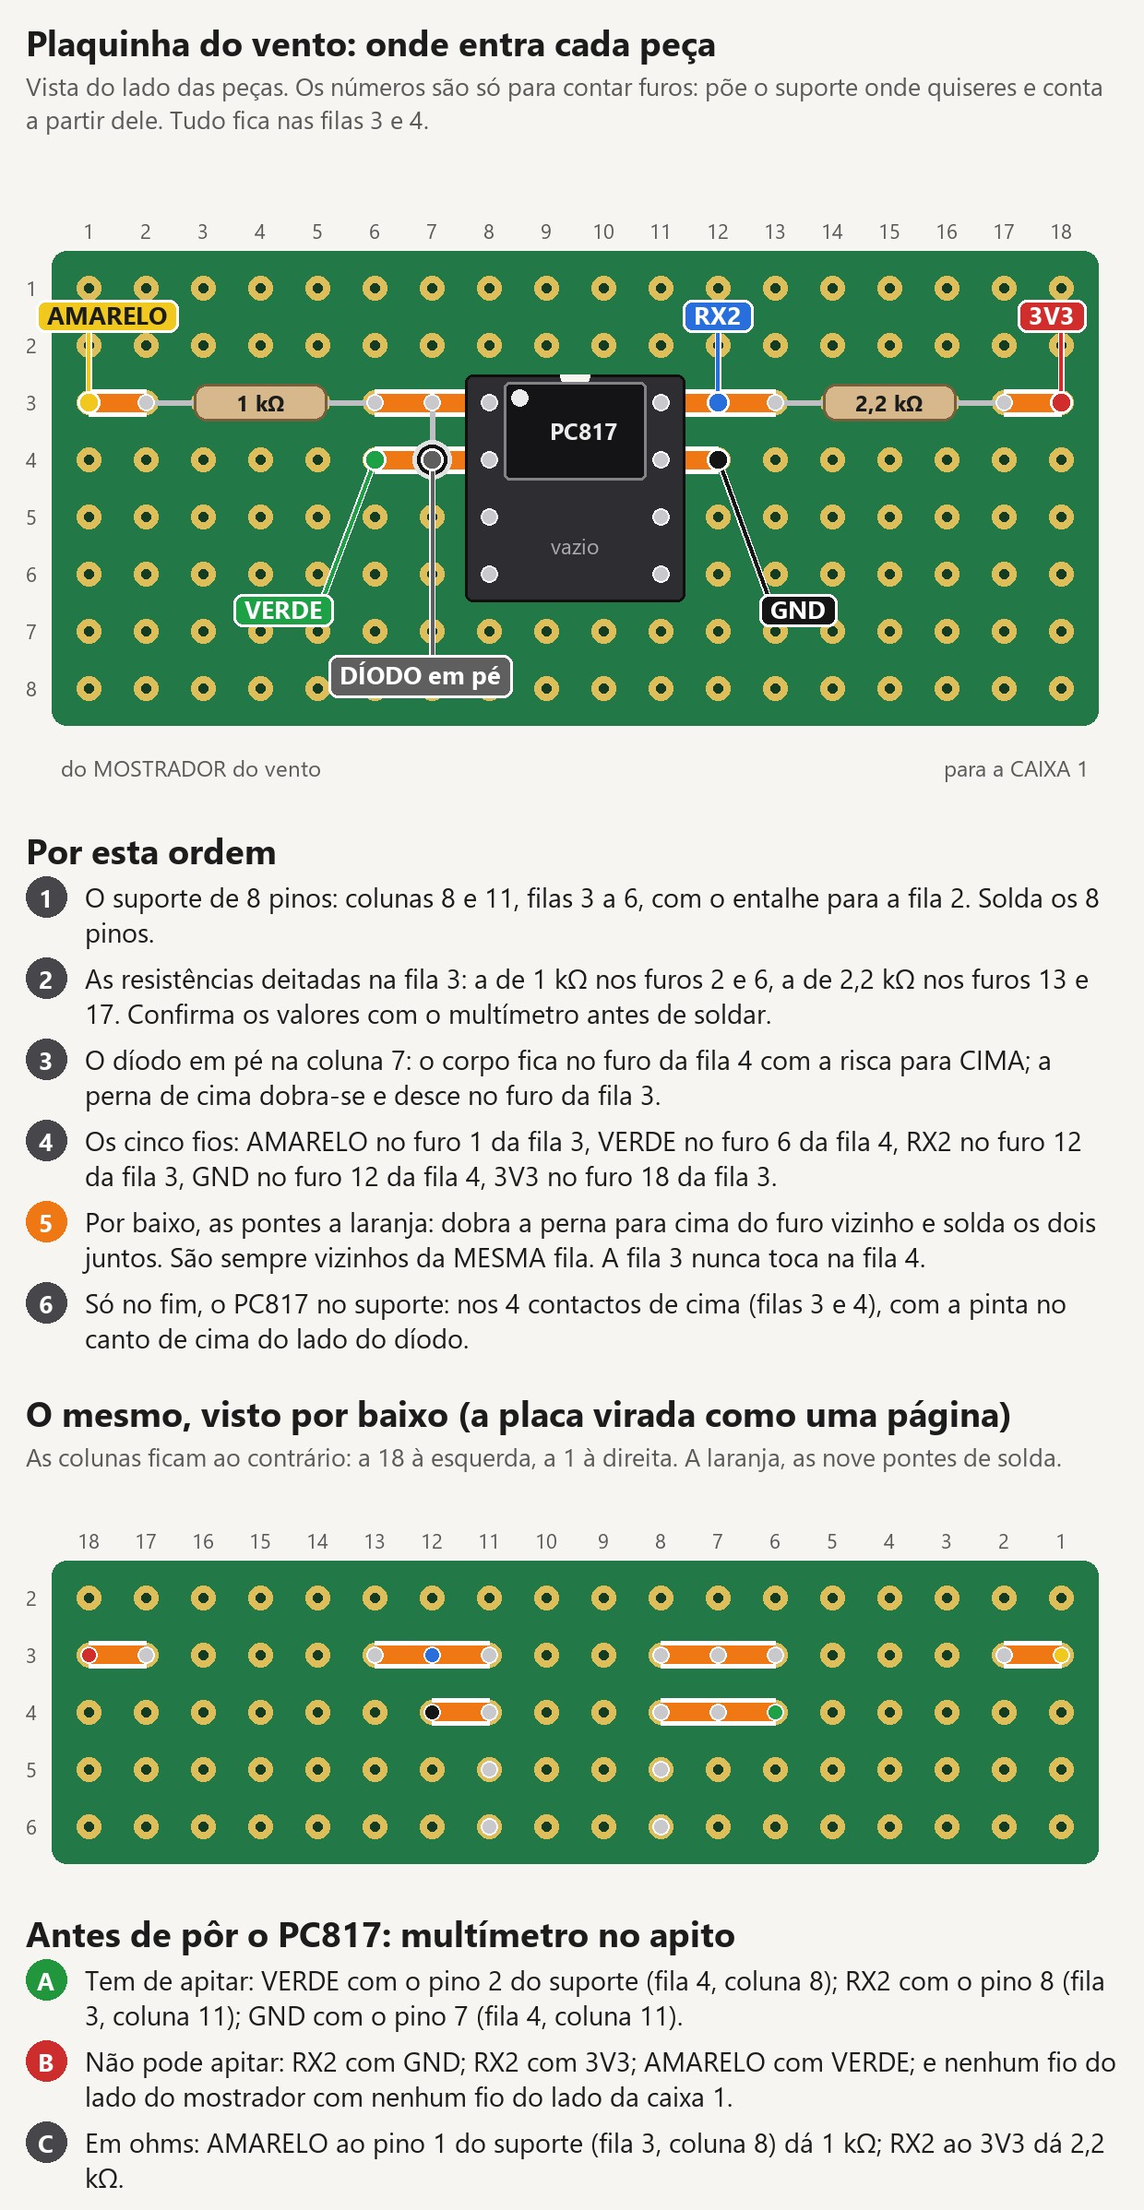
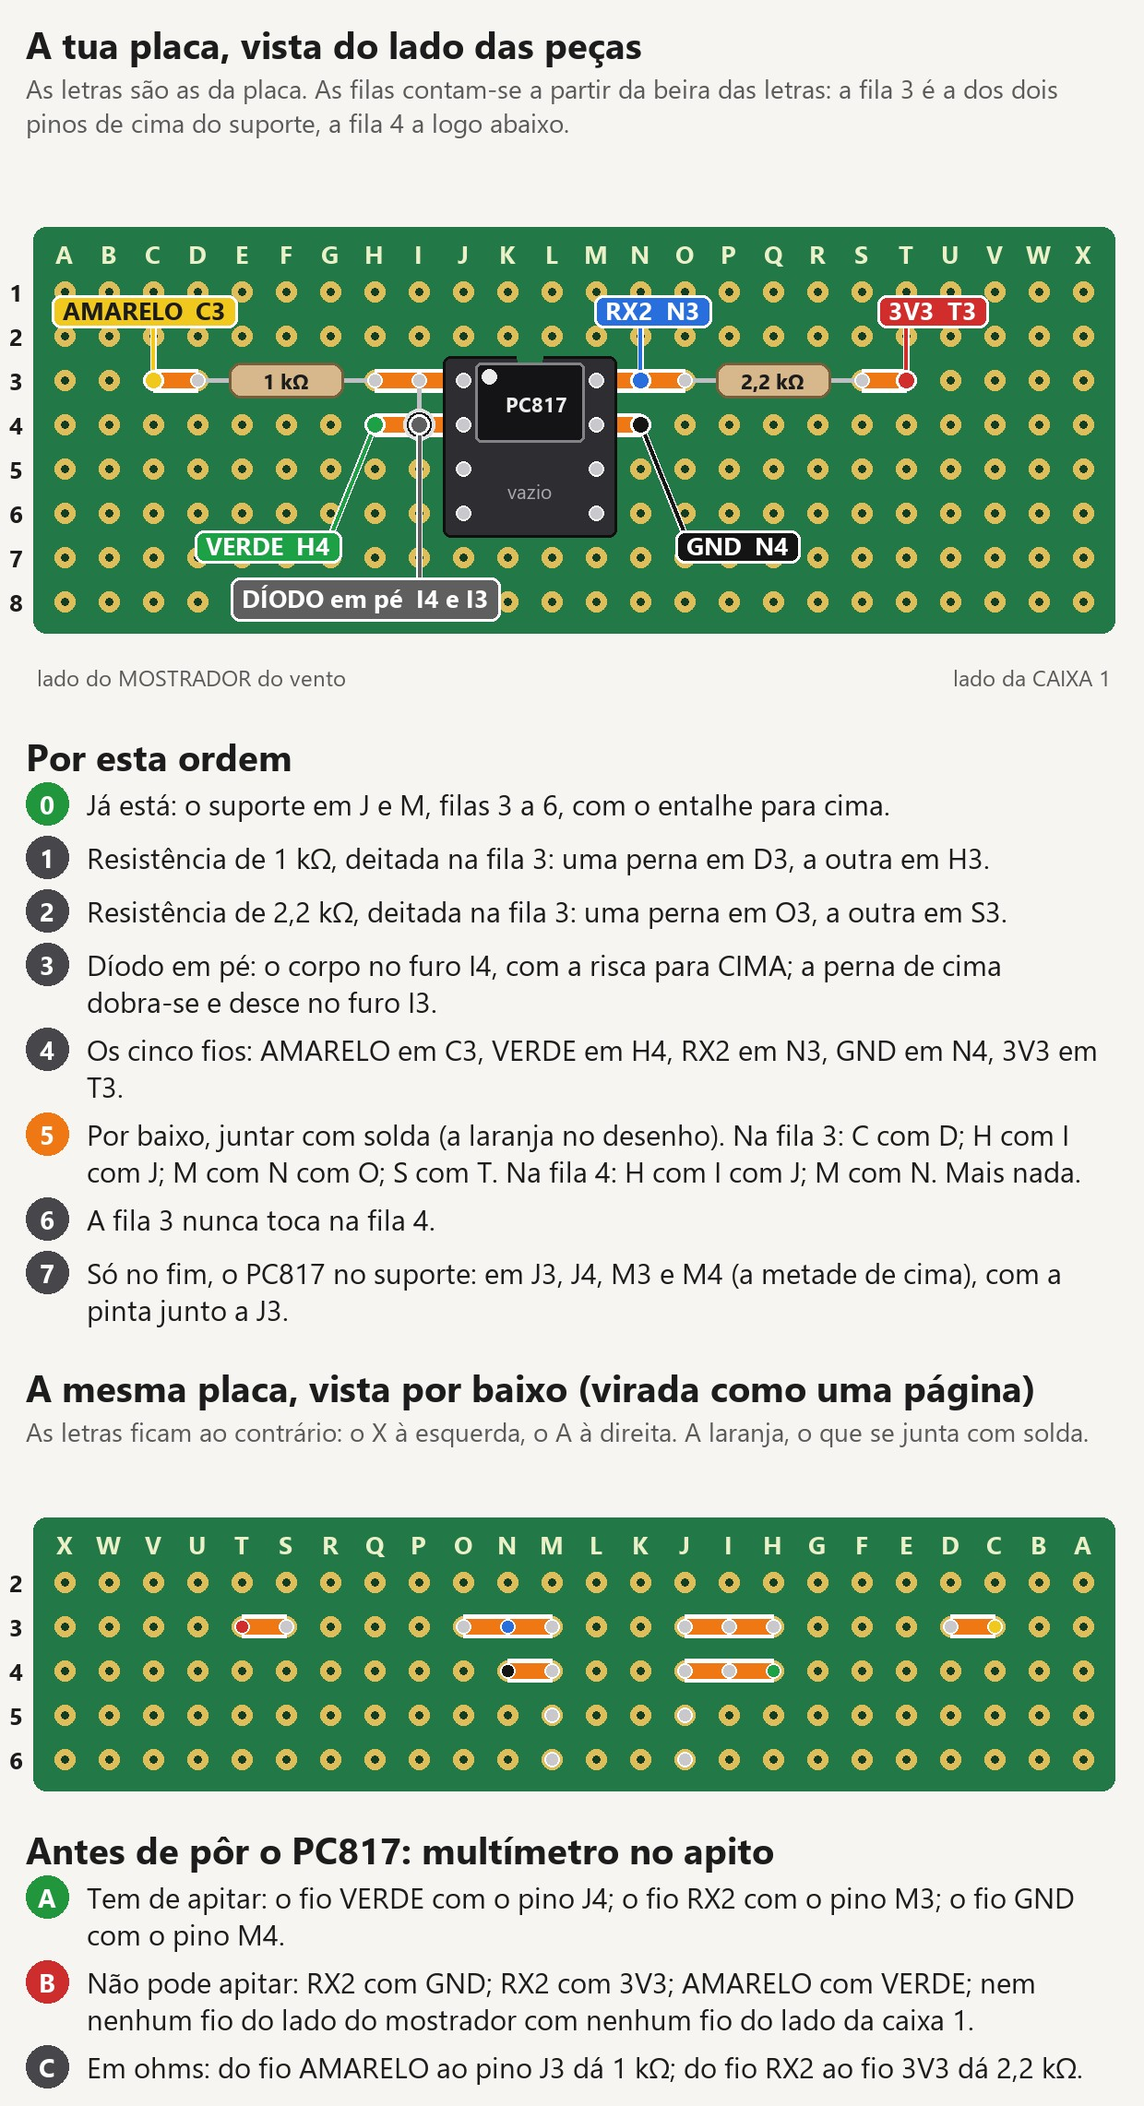
Vento: desenho de montagem refeito com as letras da placa do Ivo (suporte ja soldado em J e M, filas 3 a 6)

Changed region(s): [[0.0, 0.0933, 0.9806, 0.9952], [0.0306, 0.0, 0.95, 0.0622]]

diff --git a/software/ferramentas/caixas/vento_plaquinha.py b/software/ferramentas/caixas/vento_plaquinha.py
@@ -3,27 +3,43 @@
 #
 #   python -X utf8 vento_plaquinha.py <saida.jpg>
 #
+# A placa é a de 5 x 7 cm do Ivo: 24 colunas com letras (A a X) e as filas contadas a partir da beira
+# das letras. O suporte de 8 pinos já está soldado em J3-J6 e M3-M6, com o entalhe para a fila 2.
+#
 # Antes de desenhar, confere a montagem: junta os furos pelas pontes de solda e compara com as ligações
 # que o circuito tem de ter. Se alguma ponte estiver a mais ou a menos, não desenha nada.
 import sys
 
 from PIL import Image, ImageDraw, ImageFont
 
-# ---- a montagem: (coluna, fila) de cada perna, contadas na face das peças ----------------------------
-PERNAS = {
-    'fio AMARELO': (1, 3),
-    'R1 a': (2, 3), 'R1 b': (6, 3),
-    'D1 cátodo': (7, 3), 'D1 ânodo': (7, 4),
-    'fio VERDE': (6, 4),
-    'S1': (8, 3), 'S2': (8, 4), 'S3': (8, 5), 'S4': (8, 6),
-    'S5': (11, 6), 'S6': (11, 5), 'S7': (11, 4), 'S8': (11, 3),
-    'fio RX2': (12, 3), 'fio GND': (12, 4),
-    'R2 a': (13, 3), 'R2 b': (17, 3),
-    'fio 3V3': (18, 3),
-}
+LETRAS = 'ABCDEFGHIJKLMNOPQRSTUVWX'
+
+
+def furo(nome):
+    """'D3' -> (4, 3): a coluna pela letra, a fila pelo número."""
+    return LETRAS.index(nome[0]) + 1, int(nome[1:])
+
+
+def nome_do(c, r):
+    return f'{LETRAS[c - 1]}{r}'
+
+
+# ---- a montagem: o furo de cada perna, visto do lado das peças ----------------------------------------
+PERNAS = {k: furo(v) for k, v in {
+    'fio AMARELO': 'C3',
+    'R1 a': 'D3', 'R1 b': 'H3',
+    'D1 cátodo': 'I3', 'D1 ânodo': 'I4',
+    'fio VERDE': 'H4',
+    'S1': 'J3', 'S2': 'J4', 'S3': 'J5', 'S4': 'J6',
+    'S5': 'M6', 'S6': 'M5', 'S7': 'M4', 'S8': 'M3',
+    'fio RX2': 'N3', 'fio GND': 'N4',
+    'R2 a': 'O3', 'R2 b': 'S3',
+    'fio 3V3': 'T3',
+}.items()}
 # pontes de solda por baixo, sempre entre furos vizinhos da mesma fila
-PONTES = [((1, 3), (2, 3)), ((6, 3), (7, 3)), ((7, 3), (8, 3)), ((6, 4), (7, 4)), ((7, 4), (8, 4)),
-          ((11, 3), (12, 3)), ((12, 3), (13, 3)), ((11, 4), (12, 4)), ((17, 3), (18, 3))]
+PONTES = [(furo(a), furo(b)) for a, b in (
+    ('C3', 'D3'), ('H3', 'I3'), ('I3', 'J3'), ('M3', 'N3'), ('N3', 'O3'), ('S3', 'T3'),
+    ('H4', 'I4'), ('I4', 'J4'), ('M4', 'N4'))]
 # o que o circuito pede (o PC817 fica nos 4 contactos de cima do suporte: 1 = S1, 2 = S2, 3 = S7, 4 = S8)
 LIGACOES = [
     {'fio AMARELO', 'R1 a'},                 # o amarelo entra na resistência de 1 kΩ
@@ -37,8 +53,8 @@ LIGACOES = [
 
 
 def conferir():
-    furo = {v: k for k, v in PERNAS.items()}
-    assert len(furo) == len(PERNAS), 'duas pernas no mesmo furo'
+    dono = {v: k for k, v in PERNAS.items()}
+    assert len(dono) == len(PERNAS), 'duas pernas no mesmo furo'
     pai = {k: k for k in PERNAS}
 
     def raiz(a):
@@ -47,9 +63,9 @@ def conferir():
         return a
 
     for a, b in PONTES:
-        assert a in furo and b in furo, f'ponte para um furo sem perna: {a} {b}'
+        assert a in dono and b in dono, f'ponte para um furo sem perna: {a} {b}'
         assert a[1] == b[1] and abs(a[0] - b[0]) == 1, f'ponte que não é entre vizinhos da mesma fila: {a} {b}'
-        pai[raiz(furo[a])] = raiz(furo[b])
+        pai[raiz(dono[a])] = raiz(dono[b])
     grupos = {}
     for k in PERNAS:
         grupos.setdefault(raiz(k), set()).add(k)
@@ -59,7 +75,7 @@ def conferir():
 
 
 # ---- o desenho -----------------------------------------------------------------------------------------
-W, P, X0 = 1240, 62, 96
+W, P, X0 = 1240, 48, 70
 FUNDO, TINTA, CINZA = (246, 245, 241), (28, 28, 28), (90, 90, 90)
 VERDE_PLACA, OURO, LARANJA = (34, 120, 70), (222, 190, 90), (240, 120, 20)
 COR_FIO = {'fio AMARELO': (240, 200, 30), 'fio VERDE': (30, 160, 70), 'fio RX2': (40, 110, 220),
@@ -89,18 +105,18 @@ def partir(d, texto, f, largura):
 
 
 def bloco(titulo, itens, nota=None):
-    f_t, f_n, f_l, f_m = fonte(38), fonte(27, False), fonte(29, False), fonte(27)
+    f_t, f_n, f_l, f_m = fonte(40), fonte(28, False), fonte(31, False), fonte(28)
     tmp = ImageDraw.Draw(Image.new('RGB', (W, 10)))
-    margem, raio, y, ops = 28, 22, 20, []
-    ops.append(('t', y, titulo)); y += 54
+    margem, raio, y, ops = 28, 23, 20, []
+    ops.append(('t', y, titulo)); y += 56
     if nota:
         for ln in partir(tmp, nota, f_n, W - 2 * margem):
-            ops.append(('n', y, ln)); y += 36
+            ops.append(('n', y, ln)); y += 37
         y += 8
     for marca, cor, texto in itens:
         linhas = partir(tmp, texto, f_l, W - 2 * margem - 2 * raio - 20)
         ops.append(('m', y, marca, cor, linhas))
-        y += max(len(linhas) * 38, 2 * raio) + 12
+        y += max(len(linhas) * 40, 2 * raio) + 12
     im = Image.new('RGB', (W, y + 8), FUNDO)
     d = ImageDraw.Draw(im)
     for op in ops:
@@ -114,109 +130,109 @@ def bloco(titulo, itens, nota=None):
             d.ellipse([cx - raio, cy - raio, cx + raio, cy + raio], fill=cor)
             d.text((cx, cy), marca, font=f_m, fill=(255, 255, 255), anchor='mm')
             for i, ln in enumerate(linhas):
-                d.text((margem + 2 * raio + 20, yy + 2 + i * 38), ln, font=f_l, fill=TINTA)
+                d.text((margem + 2 * raio + 20, yy + 2 + i * 40), ln, font=f_l, fill=TINTA)
     return im
 
 
 class Placa:
-    """A placa de furos vista de um lado. espelho=True é a face das soldas (a placa virada como uma página)."""
+    """A placa vista de um lado. espelho=True é a face das soldas (a placa virada como uma página)."""
 
-    def __init__(self, filas=(1, 8), espelho=False, topo=150, fundo=130):
+    def __init__(self, filas=(1, 8), espelho=False, topo=150, fundo=120):
         self.f0, self.f1 = filas
         self.espelho = espelho
         self.y0 = topo
         self.im = Image.new('RGB', (W, topo + (self.f1 - self.f0) * P + fundo), FUNDO)
         self.d = ImageDraw.Draw(self.im)
-        x_a, x_b = X0 - 40, X0 + 17 * P + 40
-        self.d.rounded_rectangle([x_a, self.y0 - 40, x_b, self.y0 + (self.f1 - self.f0) * P + 40], radius=16, fill=VERDE_PLACA)
-        f = fonte(22, False)
-        for c in range(1, 19):
+        x_a, x_b = X0 - 34, X0 + 23 * P + 34
+        self.d.rounded_rectangle([x_a, self.y0 - 70, x_b, self.y0 + (self.f1 - self.f0) * P + 34], radius=14, fill=VERDE_PLACA)
+        f = fonte(27)
+        for c in range(1, 25):
             x, _ = self.xy(c, self.f0)
-            self.d.text((x, self.y0 - 62), str(c), font=f, fill=CINZA, anchor='mm')
+            self.d.text((x, self.y0 - 42), LETRAS[c - 1], font=f, fill=(235, 240, 200), anchor='mm')
             for r in range(self.f0, self.f1 + 1):
                 self.furo(c, r)
         for r in range(self.f0, self.f1 + 1):
             _, y = self.xy(1, r)
-            self.d.text((x_a - 22, y), str(r), font=f, fill=CINZA, anchor='mm')
+            self.d.text((x_a - 18, y), str(r), font=fonte(26), fill=TINTA, anchor='mm')
 
     def xy(self, coluna, fila):
-        c = 19 - coluna if self.espelho else coluna
+        c = 25 - coluna if self.espelho else coluna
         return X0 + (c - 1) * P, self.y0 + (fila - self.f0) * P
 
-    def furo(self, c, r, cheio=None):
+    def furo(self, c, r):
         x, y = self.xy(c, r)
-        self.d.ellipse([x - 13, y - 13, x + 13, y + 13], fill=OURO)
-        self.d.ellipse([x - 5, y - 5, x + 5, y + 5], fill=cheio or (20, 60, 35))
+        self.d.ellipse([x - 11, y - 11, x + 11, y + 11], fill=OURO)
+        self.d.ellipse([x - 4, y - 4, x + 4, y + 4], fill=(20, 60, 35))
 
     def ponte(self, a, b):
         (xa, ya), (xb, yb) = self.xy(*a), self.xy(*b)
-        self.d.line([(xa, ya), (xb, yb)], fill=(255, 255, 255), width=30)
-        self.d.line([(xa, ya), (xb, yb)], fill=LARANJA, width=20)
+        self.d.line([(xa, ya), (xb, yb)], fill=(255, 255, 255), width=26)
+        self.d.line([(xa, ya), (xb, yb)], fill=LARANJA, width=17)
 
     def perna(self, c, r, cor=(200, 200, 205)):
         x, y = self.xy(c, r)
-        self.d.ellipse([x - 9, y - 9, x + 9, y + 9], fill=cor, outline=(255, 255, 255), width=2)
+        self.d.ellipse([x - 8, y - 8, x + 8, y + 8], fill=cor, outline=(255, 255, 255), width=2)
 
     def resistencia(self, a, b, texto):
         (xa, y), (xb, _) = self.xy(*a), self.xy(*b)
         xa, xb = min(xa, xb), max(xa, xb)
-        self.d.line([(xa, y), (xb, y)], fill=(190, 190, 195), width=6)
-        self.d.rounded_rectangle([xa + 52, y - 20, xb - 52, y + 20], radius=14, fill=(214, 184, 140), outline=(120, 95, 60), width=3)
-        self.d.text(((xa + xb) / 2, y), texto, font=fonte(24), fill=TINTA, anchor='mm')
+        self.d.line([(xa, y), (xb, y)], fill=(190, 190, 195), width=5)
+        self.d.rounded_rectangle([xa + 34, y - 19, xb - 34, y + 19], radius=13, fill=(214, 184, 140), outline=(120, 95, 60), width=3)
+        self.d.text(((xa + xb) / 2, y), texto, font=fonte(23), fill=TINTA, anchor='mm')
         self.perna(*a); self.perna(*b)
 
-    def etiqueta(self, c, r, texto, cor, dx, dy, ancora='mm', tinta=(255, 255, 255)):
+    def etiqueta(self, c, r, texto, cor, dx, dy, tinta=(255, 255, 255)):
         x, y = self.xy(c, r)
         f = fonte(27)
         tx, ty = x + dx, y + dy
-        l, t, rr, b = self.d.textbbox((tx, ty), texto, font=f, anchor=ancora)
-        self.d.line([(x, y), (min(max(x, l), rr), t if ty > y else b)], fill=(255, 255, 255), width=7)
-        self.d.line([(x, y), (min(max(x, l), rr), t if ty > y else b)], fill=cor, width=4)
+        l, t, rr, b = self.d.textbbox((tx, ty), texto, font=f, anchor='mm')
+        alvo = (min(max(x, l), rr), t if ty > y else b)
+        self.d.line([(x, y), alvo], fill=(255, 255, 255), width=7)
+        self.d.line([(x, y), alvo], fill=cor, width=4)
         self.d.rounded_rectangle([l - 12, t - 8, rr + 12, b + 8], radius=10, fill=cor, outline=(255, 255, 255), width=3)
-        self.d.text((tx, ty), texto, font=f, fill=tinta, anchor=ancora)
-        self.d.ellipse([x - 12, y - 12, x + 12, y + 12], fill=cor, outline=(255, 255, 255), width=3)
+        self.d.text((tx, ty), texto, font=f, fill=tinta, anchor='mm')
+        self.d.ellipse([x - 11, y - 11, x + 11, y + 11], fill=cor, outline=(255, 255, 255), width=3)
 
 
 def face_das_pecas():
     p = Placa()
     d = p.d
-    for a, b in PONTES:                       # as pontes ficam por baixo: aqui só se mostram onde são
+    for a, b in PONTES:                       # as pontes ficam por baixo: aqui só se mostra onde são
         p.ponte(a, b)
     # o suporte de 8 pinos, com o PC817 nos 4 contactos de cima
-    (xa, ya), (xb, yb) = p.xy(8, 3), p.xy(11, 6)
-    d.rounded_rectangle([xa - 26, ya - 30, xb + 26, yb + 30], radius=8, fill=(45, 45, 50), outline=(15, 15, 15), width=3)
-    d.pieslice([(xa + xb) / 2 - 16, ya - 46, (xa + xb) / 2 + 16, ya - 14], 0, 180, fill=FUNDO)     # o entalhe
+    (xa, ya), (xb, yb) = p.xy(*furo('J3')), p.xy(*furo('M6'))
+    d.rounded_rectangle([xa - 22, ya - 26, xb + 22, yb + 26], radius=8, fill=(45, 45, 50), outline=(15, 15, 15), width=3)
+    d.pieslice([(xa + xb) / 2 - 14, ya - 40, (xa + xb) / 2 + 14, ya - 12], 0, 180, fill=VERDE_PLACA)   # o entalhe
     for nome in ('S1', 'S2', 'S3', 'S4', 'S5', 'S6', 'S7', 'S8'):
         p.perna(*PERNAS[nome])
-    (x1, y1), (x2, y2) = p.xy(8, 3), p.xy(11, 4)
-    d.rounded_rectangle([x1 + 16, y1 - 22, x2 - 16, y2 + 22], radius=6, fill=(20, 20, 22), outline=(130, 130, 135), width=3)
-    d.ellipse([x1 + 24, y1 - 14, x1 + 42, y1 + 4], fill=(235, 235, 235))                           # a pinta
-    d.text(((x1 + x2) / 2 + 10, (y1 + y2) / 2), 'PC817', font=fonte(25), fill=(235, 235, 235), anchor='mm')
-    (x3, y3), (x4, y4) = p.xy(8, 5), p.xy(11, 6)
-    d.text(((x3 + x4) / 2, (y3 + y4) / 2), 'vazio', font=fonte(23, False), fill=(170, 170, 175), anchor='mm')
-    # as duas resistências
+    (x1, y1), (x2, y2) = p.xy(*furo('J3')), p.xy(*furo('M4'))
+    d.rounded_rectangle([x1 + 13, y1 - 19, x2 - 13, y2 + 19], radius=6, fill=(20, 20, 22), outline=(130, 130, 135), width=3)
+    d.ellipse([x1 + 20, y1 - 12, x1 + 36, y1 + 4], fill=(235, 235, 235))                               # a pinta
+    d.text(((x1 + x2) / 2 + 8, (y1 + y2) / 2 + 2), 'PC817', font=fonte(22), fill=(235, 235, 235), anchor='mm')
+    (x3, y3), (x4, y4) = p.xy(*furo('J5')), p.xy(*furo('M6'))
+    d.text(((x3 + x4) / 2, (y3 + y4) / 2), 'vazio', font=fonte(21, False), fill=(170, 170, 175), anchor='mm')
     p.resistencia(PERNAS['R1 a'], PERNAS['R1 b'], '1 kΩ')
     p.resistencia(PERNAS['R2 a'], PERNAS['R2 b'], '2,2 kΩ')
     # o díodo em pé: o corpo no furo de baixo, a risca para cima, a perna de cima dobrada para o furo de cima
     (xk, yk), (xn, yn) = p.xy(*PERNAS['D1 cátodo']), p.xy(*PERNAS['D1 ânodo'])
-    d.line([(xk, yk), (xn, yn)], fill=(190, 190, 195), width=6)
+    d.line([(xk, yk), (xn, yn)], fill=(190, 190, 195), width=5)
     p.perna(*PERNAS['D1 cátodo'])
-    d.ellipse([xn - 21, yn - 21, xn + 21, yn + 21], fill=(15, 15, 15), outline=(225, 225, 225), width=5)
-    # os cinco fios
-    p.etiqueta(*PERNAS['fio AMARELO'], 'AMARELO', COR_FIO['fio AMARELO'], 20, -P * 1.55, 'mm', tinta=TINTA)
-    p.etiqueta(*PERNAS['fio VERDE'], 'VERDE', COR_FIO['fio VERDE'], -P * 1.6, P * 2.6)
-    p.etiqueta(*PERNAS['fio RX2'], 'RX2', COR_FIO['fio RX2'], 0, -P * 1.55)
-    p.etiqueta(*PERNAS['fio GND'], 'GND', COR_FIO['fio GND'], P * 1.4, P * 2.6)
-    p.etiqueta(*PERNAS['fio 3V3'], '3V3', COR_FIO['fio 3V3'], -10, -P * 1.55)
-    p.etiqueta(7, 4, 'DÍODO em pé', (95, 95, 95), -P * 0.2, P * 3.75)
+    d.ellipse([xn - 17, yn - 17, xn + 17, yn + 17], fill=(15, 15, 15), outline=(225, 225, 225), width=4)
+    # os cinco fios e o díodo, cada um com o nome do furo
+    p.etiqueta(*PERNAS['fio AMARELO'], 'AMARELO  C3', COR_FIO['fio AMARELO'], -10, -P * 1.6, tinta=TINTA)
+    p.etiqueta(*PERNAS['fio VERDE'], 'VERDE  H4', COR_FIO['fio VERDE'], -P * 2.4, P * 2.7)
+    p.etiqueta(*PERNAS['D1 ânodo'], 'DÍODO em pé  I4 e I3', (95, 95, 95), -P * 1.2, P * 3.9)
+    p.etiqueta(*PERNAS['fio RX2'], 'RX2  N3', COR_FIO['fio RX2'], P * 0.3, -P * 1.6)
+    p.etiqueta(*PERNAS['fio GND'], 'GND  N4', COR_FIO['fio GND'], P * 2.2, P * 2.7)
+    p.etiqueta(*PERNAS['fio 3V3'], '3V3  T3', COR_FIO['fio 3V3'], P * 0.6, -P * 1.6)
     f = fonte(24, False)
-    d.text((p.xy(1, 1)[0] - 30, p.im.height - 44), 'do MOSTRADOR do vento', font=f, fill=CINZA, anchor='lm')
-    d.text((p.xy(18, 1)[0] + 30, p.im.height - 44), 'para a CAIXA 1', font=f, fill=CINZA, anchor='rm')
+    d.text((X0 - 30, p.im.height - 38), 'lado do MOSTRADOR do vento', font=f, fill=CINZA, anchor='lm')
+    d.text((X0 + 23 * P + 30, p.im.height - 38), 'lado da CAIXA 1', font=f, fill=CINZA, anchor='rm')
     return p.im
 
 
 def face_das_soldas():
-    p = Placa(filas=(2, 6), espelho=True, topo=120, fundo=70)
+    p = Placa(filas=(2, 6), espelho=True, topo=130, fundo=50)
     for a, b in PONTES:
         p.ponte(a, b)
     for nome, (c, r) in PERNAS.items():
@@ -226,31 +242,31 @@ def face_das_soldas():
 
 def main(saida):
     conferir()
-    C, L = (70, 70, 75), LARANJA
-    topo = bloco('Plaquinha do vento: onde entra cada peça', [], nota=(
-        'Vista do lado das peças. Os números são só para contar furos: põe o suporte onde quiseres e '
-        'conta a partir dele. Tudo fica nas filas 3 e 4.'))
+    C, L, FEITO = (70, 70, 75), LARANJA, (34, 150, 60)
+    p = {k: nome_do(*v) for k, v in PERNAS.items()}
+    topo = bloco('A tua placa, vista do lado das peças', [], nota=(
+        'As letras são as da placa. As filas contam-se a partir da beira das letras: a fila 3 é a dos '
+        'dois pinos de cima do suporte, a fila 4 a logo abaixo.'))
     passos = bloco('Por esta ordem', [
-        ('1', C, 'O suporte de 8 pinos: colunas 8 e 11, filas 3 a 6, com o entalhe para a fila 2. Solda os 8 pinos.'),
-        ('2', C, 'As resistências deitadas na fila 3: a de 1 kΩ nos furos 2 e 6, a de 2,2 kΩ nos furos 13 e 17. '
-                 'Confirma os valores com o multímetro antes de soldar.'),
-        ('3', C, 'O díodo em pé na coluna 7: o corpo fica no furo da fila 4 com a risca para CIMA; a perna de '
-                 'cima dobra-se e desce no furo da fila 3.'),
-        ('4', C, 'Os cinco fios: AMARELO no furo 1 da fila 3, VERDE no furo 6 da fila 4, RX2 no furo 12 da '
-                 'fila 3, GND no furo 12 da fila 4, 3V3 no furo 18 da fila 3.'),
-        ('5', L, 'Por baixo, as pontes a laranja: dobra a perna para cima do furo vizinho e solda os dois juntos. '
-                 'São sempre vizinhos da MESMA fila. A fila 3 nunca toca na fila 4.'),
-        ('6', C, 'Só no fim, o PC817 no suporte: nos 4 contactos de cima (filas 3 e 4), com a pinta no canto '
-                 'de cima do lado do díodo.'),
+        ('0', FEITO, 'Já está: o suporte em J e M, filas 3 a 6, com o entalhe para cima.'),
+        ('1', C, f"Resistência de 1 kΩ, deitada na fila 3: uma perna em {p['R1 a']}, a outra em {p['R1 b']}."),
+        ('2', C, f"Resistência de 2,2 kΩ, deitada na fila 3: uma perna em {p['R2 a']}, a outra em {p['R2 b']}."),
+        ('3', C, f"Díodo em pé: o corpo no furo {p['D1 ânodo']}, com a risca para CIMA; a perna de cima dobra-se "
+                 f"e desce no furo {p['D1 cátodo']}."),
+        ('4', C, f"Os cinco fios: AMARELO em {p['fio AMARELO']}, VERDE em {p['fio VERDE']}, RX2 em {p['fio RX2']}, "
+                 f"GND em {p['fio GND']}, 3V3 em {p['fio 3V3']}."),
+        ('5', L, 'Por baixo, juntar com solda (a laranja no desenho). Na fila 3: C com D; H com I com J; '
+                 'M com N com O; S com T. Na fila 4: H com I com J; M com N. Mais nada.'),
+        ('6', C, 'A fila 3 nunca toca na fila 4.'),
+        ('7', C, 'Só no fim, o PC817 no suporte: em J3, J4, M3 e M4 (a metade de cima), com a pinta junto a J3.'),
     ])
-    por_baixo = bloco('O mesmo, visto por baixo (a placa virada como uma página)', [], nota=(
-        'As colunas ficam ao contrário: a 18 à esquerda, a 1 à direita. A laranja, as nove pontes de solda.'))
+    por_baixo = bloco('A mesma placa, vista por baixo (virada como uma página)', [], nota=(
+        'As letras ficam ao contrário: o X à esquerda, o A à direita. A laranja, o que se junta com solda.'))
     conferencia = bloco('Antes de pôr o PC817: multímetro no apito', [
-        ('A', (34, 150, 60), 'Tem de apitar: VERDE com o pino 2 do suporte (fila 4, coluna 8); RX2 com o pino 8 '
-                             '(fila 3, coluna 11); GND com o pino 7 (fila 4, coluna 11).'),
-        ('B', (205, 45, 45), 'Não pode apitar: RX2 com GND; RX2 com 3V3; AMARELO com VERDE; e nenhum fio do '
+        ('A', (34, 150, 60), 'Tem de apitar: o fio VERDE com o pino J4; o fio RX2 com o pino M3; o fio GND com o pino M4.'),
+        ('B', (205, 45, 45), 'Não pode apitar: RX2 com GND; RX2 com 3V3; AMARELO com VERDE; nem nenhum fio do '
                              'lado do mostrador com nenhum fio do lado da caixa 1.'),
-        ('C', C, 'Em ohms: AMARELO ao pino 1 do suporte (fila 3, coluna 8) dá 1 kΩ; RX2 ao 3V3 dá 2,2 kΩ.'),
+        ('C', C, 'Em ohms: do fio AMARELO ao pino J3 dá 1 kΩ; do fio RX2 ao fio 3V3 dá 2,2 kΩ.'),
     ])
     partes = [topo, face_das_pecas(), passos, por_baixo, face_das_soldas(), conferencia]
     im = Image.new('RGB', (W, sum(x.height for x in partes)), FUNDO)
